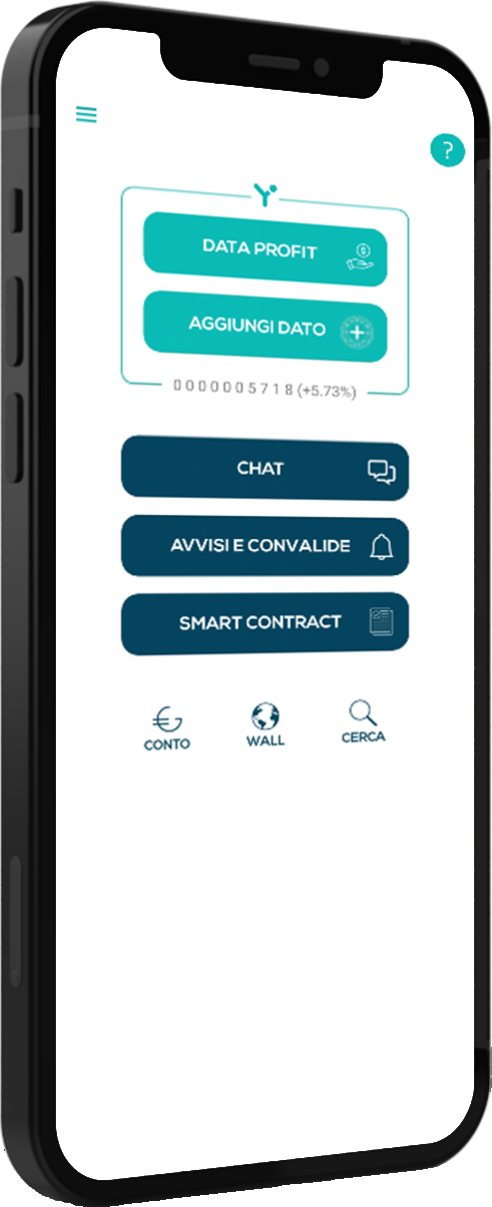
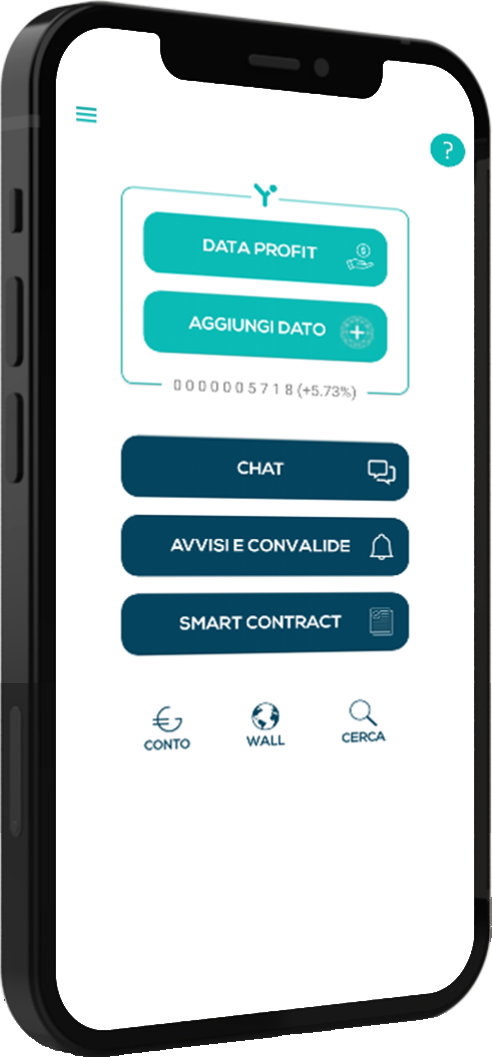
y6

diff --git a/style/style.css b/style/style.css
@@ -19,6 +19,9 @@
 html {
   font-size: 62.5%; }
 
+body {
+  overflow-x: hidden; }
+
 .container {
   width: 100%;
   box-sizing: border-box;
@@ -37,7 +40,8 @@ html {
   @media (min-width: 480px) {
     .container-phone {
       top: 75px;
-      height: 91vh; } }
+      height: 700px;
+      margin: -7vw; } }
 
 .spacer {
   height: 65; }
@@ -52,12 +56,13 @@ html {
   left: 50%;
   top: 50%;
   transform: translate(-50%, -50%);
-  width: 45%; }
+  width: 65%;
+  filter: drop-shadow(12px 12px 12px #00000070); }
   @media (min-width: 480px) {
     .smartphone {
-      left: 4%;
-      width: 18%;
-      top: 9%;
+      left: 10%;
+      width: 230px;
+      top: 15%;
       transform: translate(0%, 0%);
       max-width: 256px; } }
   .smartphone .smartphone {

diff --git a/index.html b/index.html
@@ -86,7 +86,7 @@
 	</div>
 	<main>
 		<div class="container-phone">
-			<img class="smartphone" src="images/smartphone-tilted.png" alt="smartphone">
+			<img class="smartphone" src="images/front-mock-up.png" alt="smartphone">
 		</div>
 
 		<!--spacer-->
@@ -166,7 +166,7 @@
 						<h1 class="module-title">La certificazione su blockchain</h1>
 						<div class="module-overflow">
 			      			<p>
-								Grazie alla blockchain il futuro dei dati è orientato alla legale e <b>legittima proprietà</b> da parte degli utenti stessi.
+								Grazie alla blockchain il futuro dei dati è orientato alla legale e <b>legittima proprietà</b> da parte degli utenti stessi.<br><br>
 
 								<span class="subtitle">B.A.N. e autenticazione su blockchain</span><br><br>
 

diff --git a/style/style.sass b/style/style.sass
@@ -26,6 +26,8 @@ $breakpoint-768: 768px
 html
 	font-size: 62.5%
 
+body
+	overflow-x: hidden
 
 .container
 	width: 100%
@@ -43,7 +45,8 @@ html
 	max-height: 900px
 	@media (min-width: 480px)
 		top: 75px
-		height: 91vh
+		height: 700px
+		margin: -7vw
 
 .spacer
 	height: 65
@@ -58,15 +61,14 @@ html
 	left: 50%
 	top: 50%
 	transform: translate(-50%, -50%)
-	width: 45%
+	width: 65%
+	filter: drop-shadow(12px 12px 12px #00000070)
 	@media (min-width: 480px)
-		left: 4%
-		width: 18%
-		top: 9%
+		left: 10%
+		width: 230px
+		top: 15%
 		transform: translate(0%, 0%)
 		max-width: 256px
-
-
 	.smartphone
 		width: 100%
 		position: absolute
